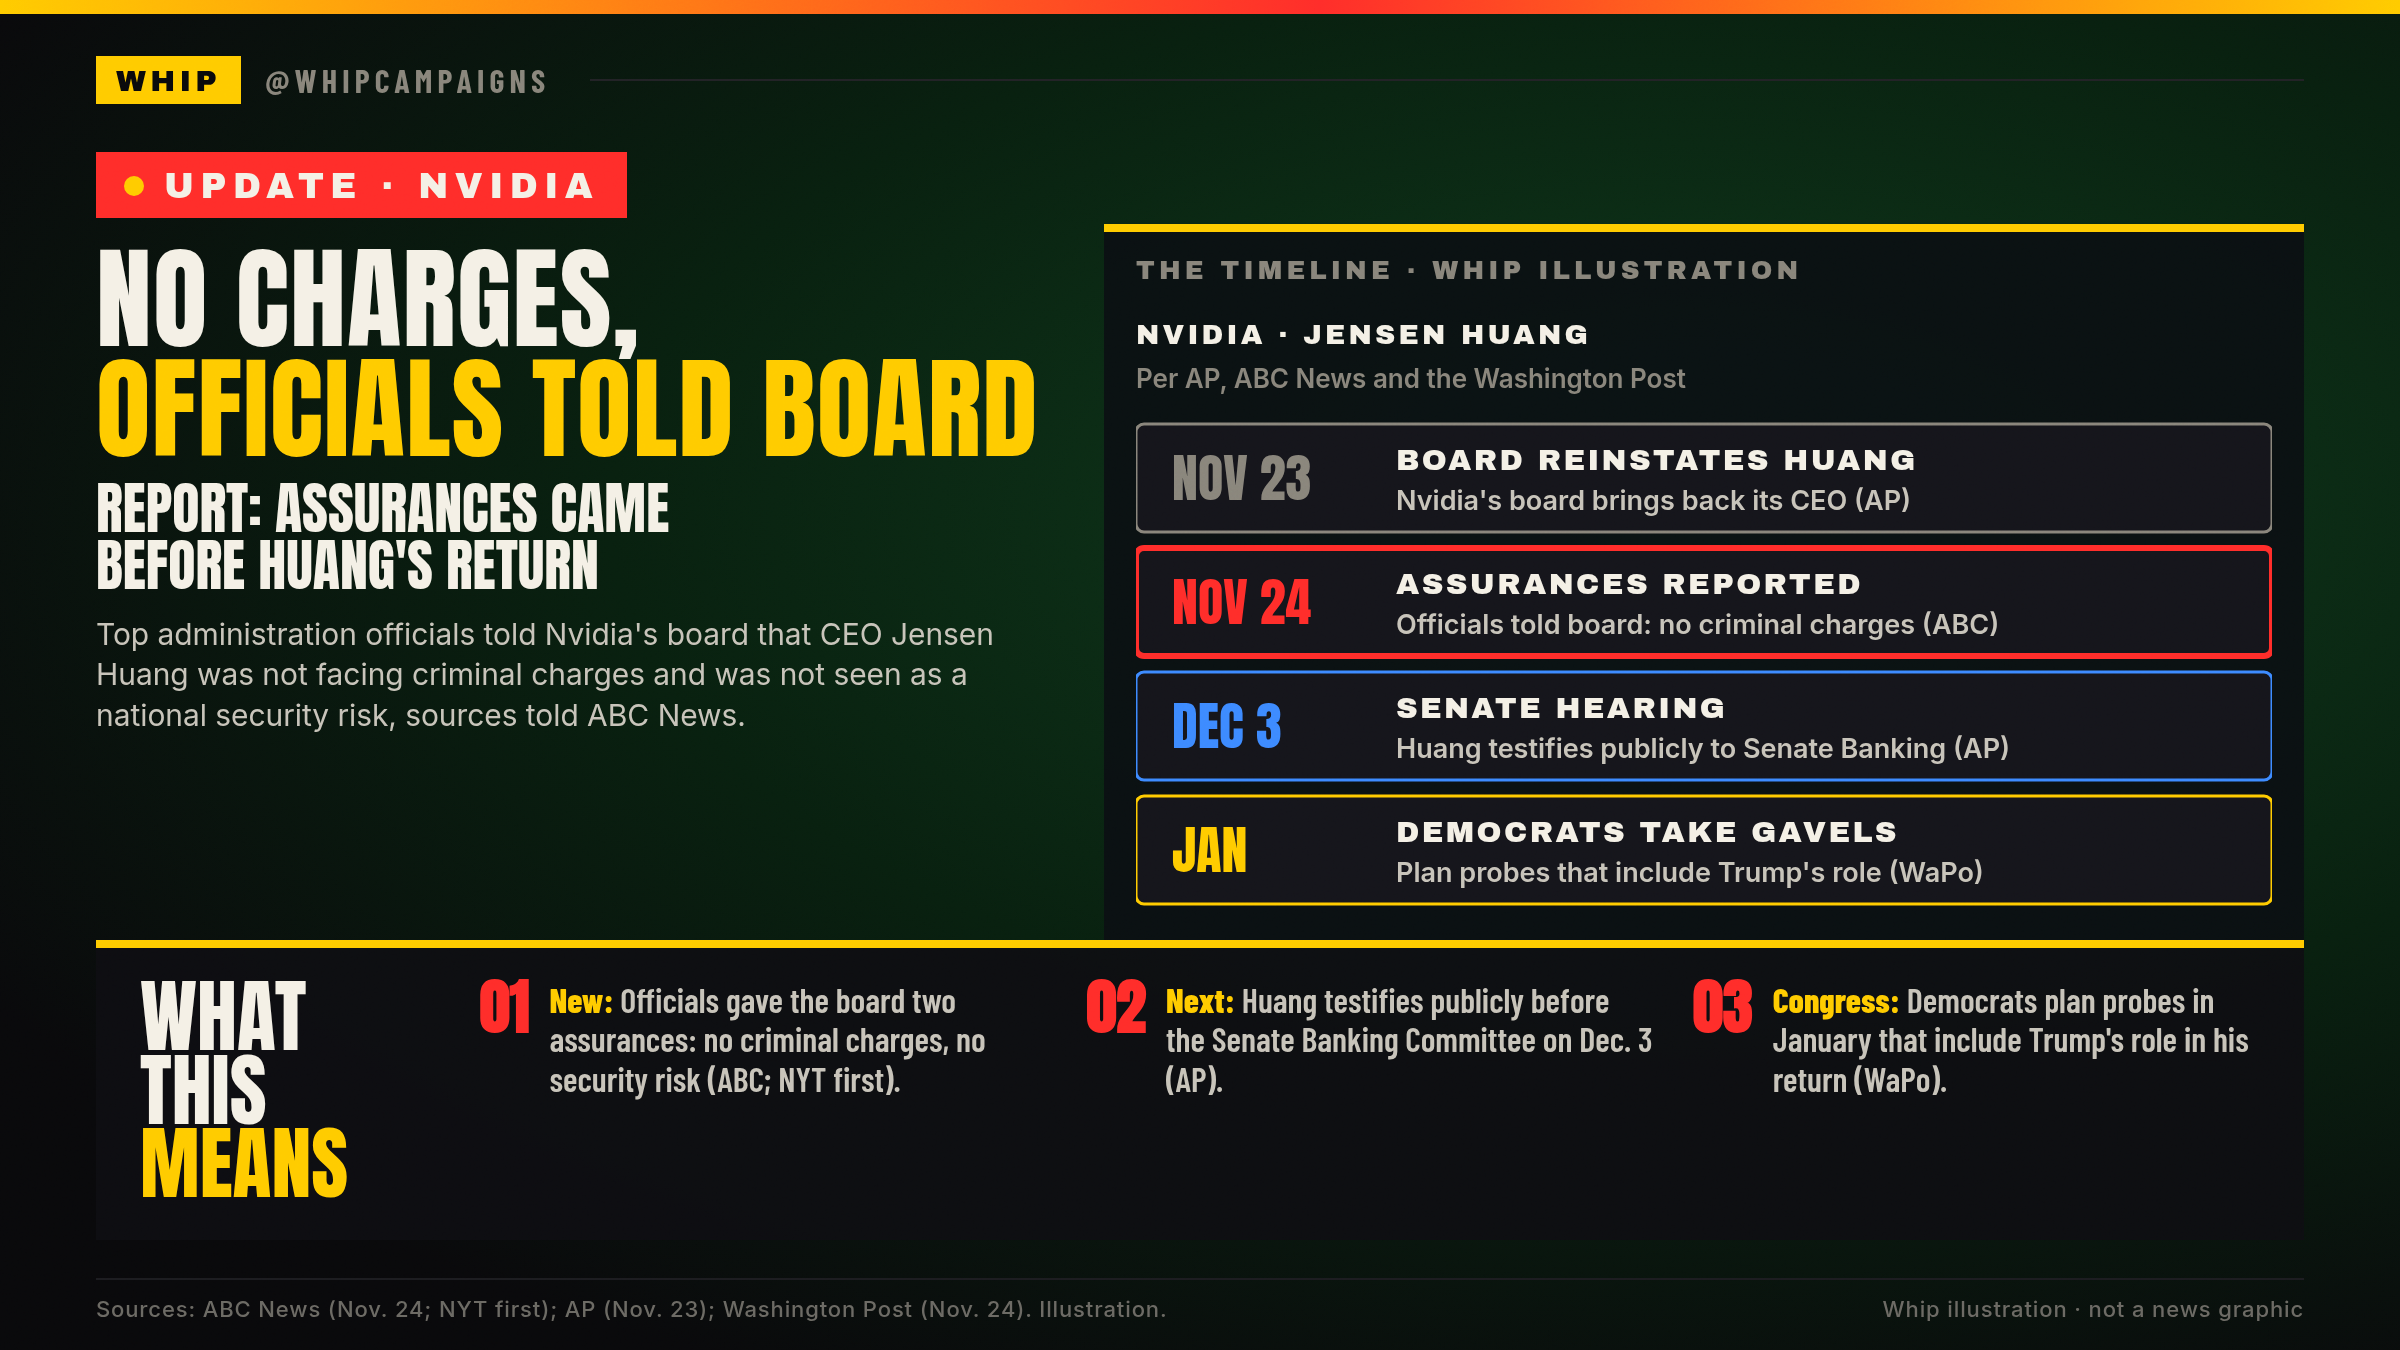
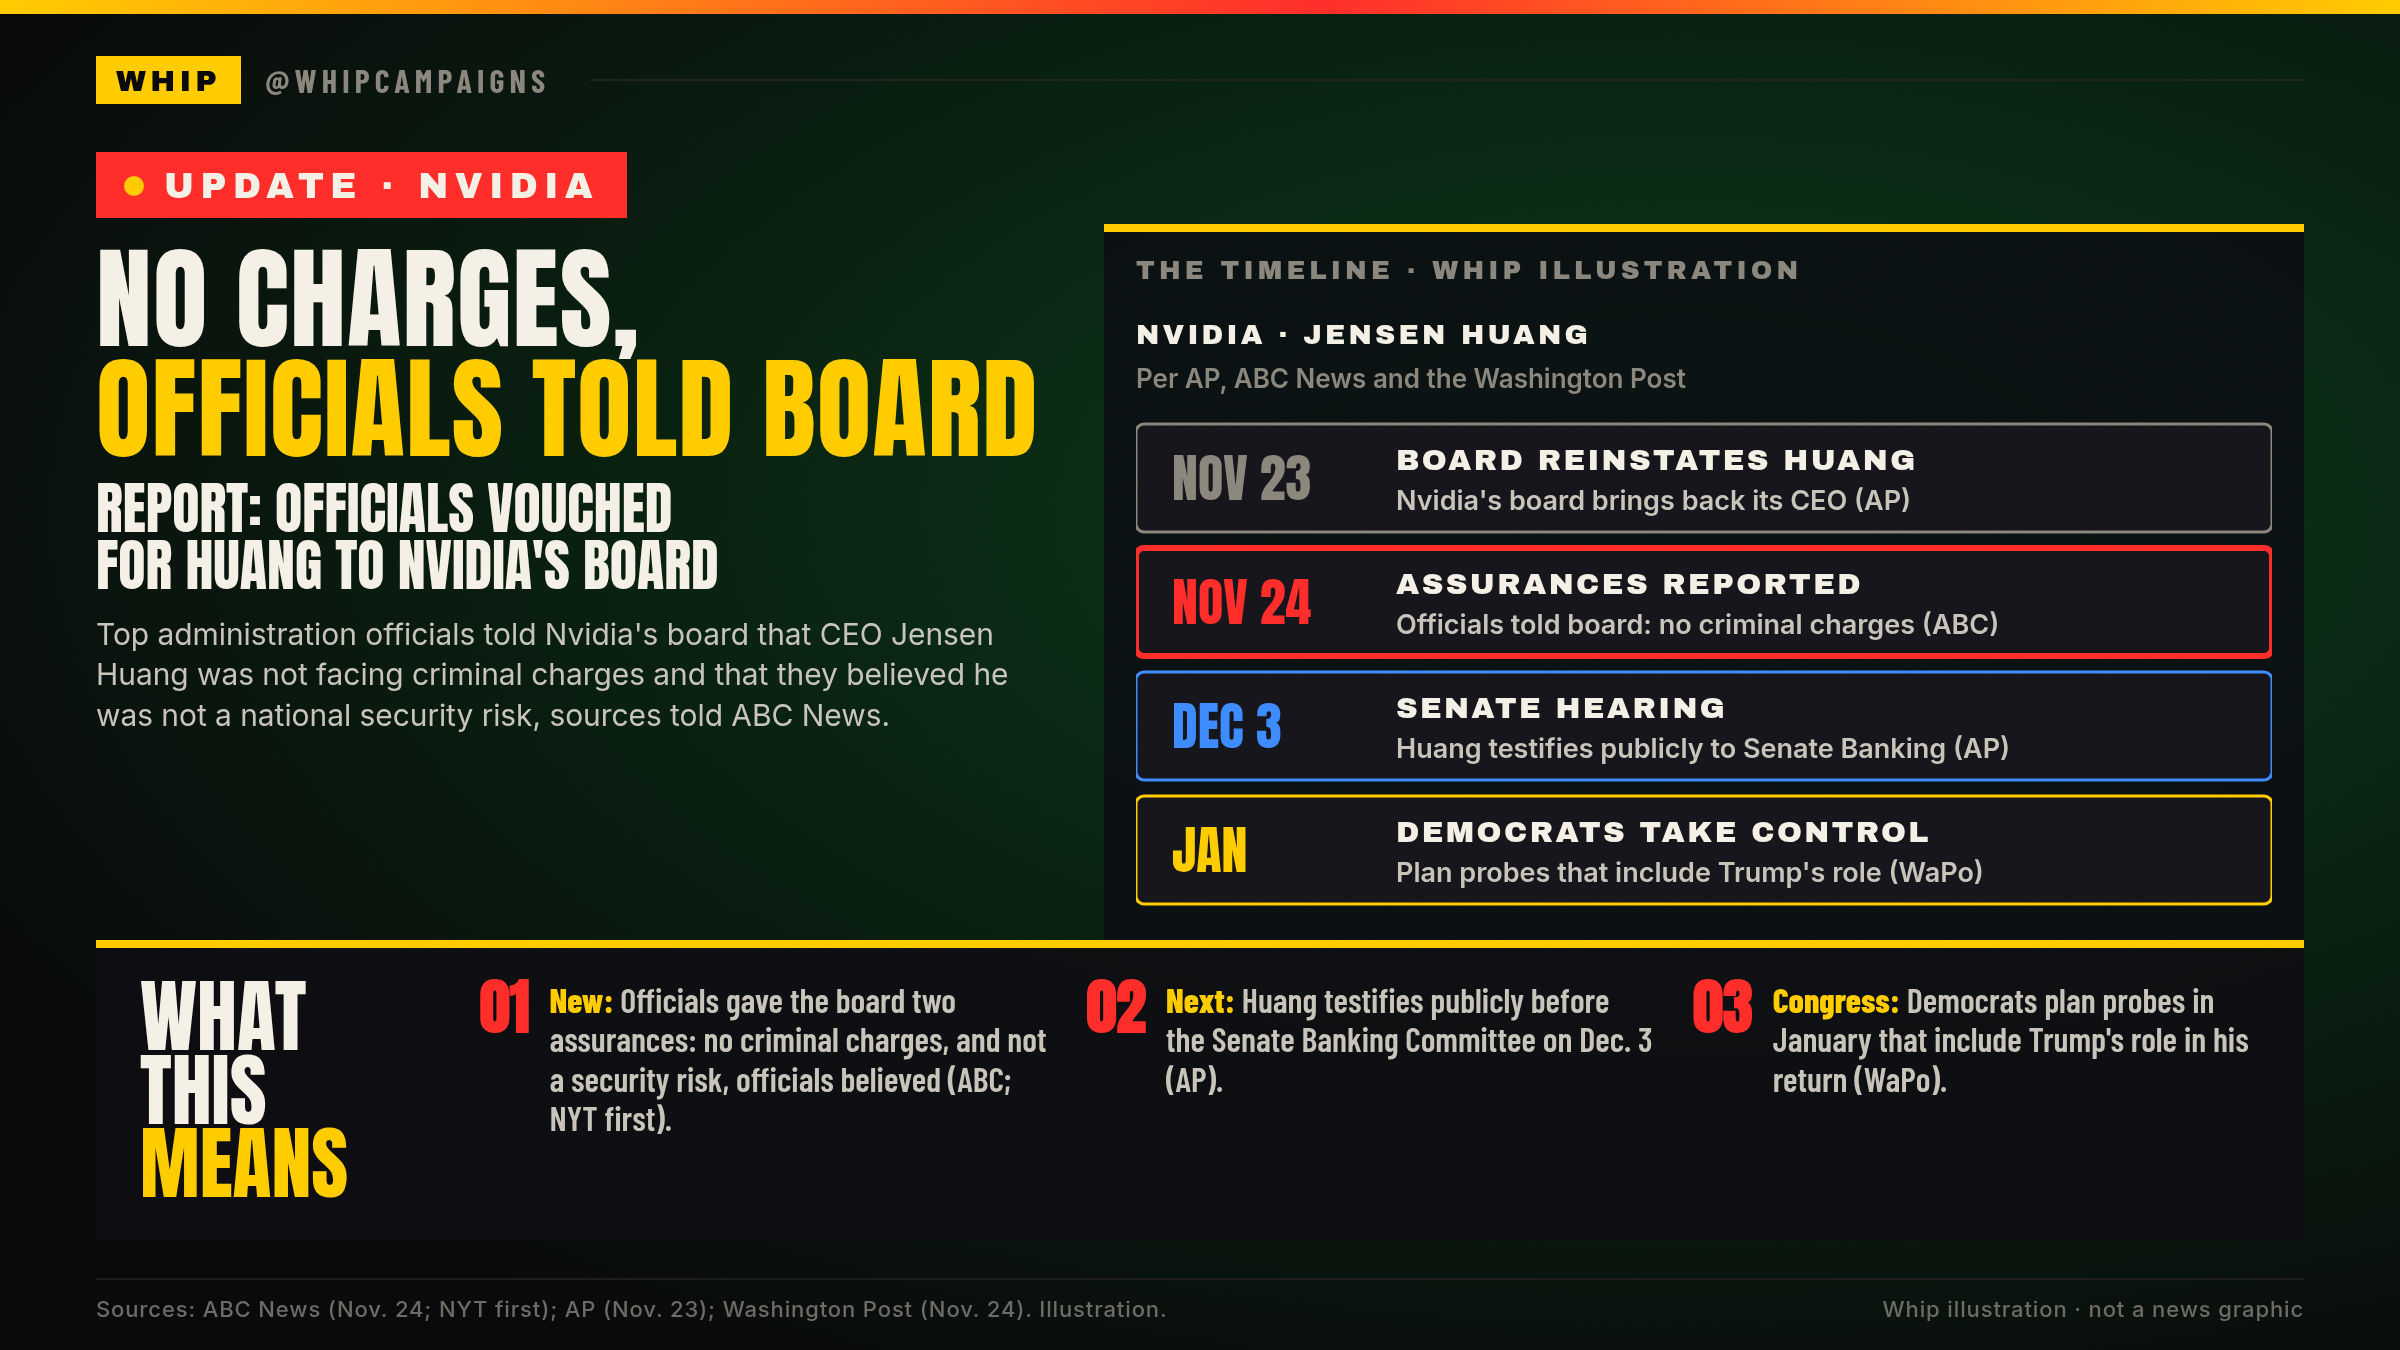
Huang assurances card: Approver fixes (subhead, JAN row, strip 01, attribution)

diff --git a/breaking/2026-11-24-huang-assurances/make_card.py b/breaking/2026-11-24-huang-assurances/make_card.py
@@ -16,7 +16,7 @@ parts.append(f'<text x="0" y="44" font-family="Inter" font-size="13" font-weight
 rows = [("NOV 23", "Board reinstates Huang", "Nvidia's board brings back its CEO (AP)", MUTE),
         ("NOV 24", "Assurances reported", "Officials told board: no criminal charges (ABC)", RED),
         ("DEC 3", "Senate hearing", "Huang testifies publicly to Senate Banking (AP)", BLU),
-        ("JAN", "Democrats take gavels", "Plan probes that include Trump's role (WaPo)", YEL)]
+        ("JAN", "Democrats take control", "Plan probes that include Trump's role (WaPo)", YEL)]
 y = 62
 for d, lab, note, col in rows:
     parts.append(f'<rect x="0" y="{y}" width="{W}" height="54" rx="4" fill="#15151b" stroke="{col}" stroke-width="{3 if col==RED else 1.5}"/>')
@@ -31,8 +31,8 @@ html = wrap(f"""
 <div class="tag"><span class="dot"></span>UPDATE &middot; NVIDIA</div>
 <div class="left">
   <div class="h1">NO CHARGES,<br><span class="y">OFFICIALS TOLD BOARD</span></div>
-  <div class="h2">REPORT: ASSURANCES CAME<br>BEFORE HUANG'S RETURN</div>
-  <div class="att">Top administration officials told Nvidia's board that CEO Jensen Huang was not facing criminal charges and was not seen as a national security risk, sources told ABC News.</div>
+  <div class="h2">REPORT: OFFICIALS VOUCHED<br>FOR HUANG TO NVIDIA'S BOARD</div>
+  <div class="att">Top administration officials told Nvidia's board that CEO Jensen Huang was not facing criminal charges and that they believed he was not a national security risk, sources told ABC News.</div>
 </div>
 <div class="panel">
   <div class="ph">THE TIMELINE &middot; WHIP ILLUSTRATION</div>
@@ -40,7 +40,7 @@ html = wrap(f"""
 </div>
 <div class="strip">
   <div class="wt">WHAT THIS<br><span class="y">MEANS</span></div>
-  <div class="b"><div class="n">01</div><div><b>New:</b> Officials gave the board two assurances: no criminal charges, no security risk (ABC; NYT first).</div></div>
+  <div class="b"><div class="n">01</div><div><b>New:</b> Officials gave the board two assurances: no criminal charges, and not a security risk, officials believed (ABC; NYT first).</div></div>
   <div class="b"><div class="n">02</div><div><b>Next:</b> Huang testifies publicly before the Senate Banking Committee on Dec. 3 (AP).</div></div>
   <div class="b"><div class="n">03</div><div><b>Congress:</b> Democrats plan probes in January that include Trump's role in his return (WaPo).</div></div>
 </div>

diff --git a/breaking/2026-11-24-huang-assurances/tweet.md b/breaking/2026-11-24-huang-assurances/tweet.md
@@ -1,12 +1,9 @@
-# UPDATE: officials assured Nvidia board Huang faced no criminal charges (Nov 24, 2026)
+# UPDATE: Huang assurances (Nov 24, 2026). Approver-edited text.
 
-Draft (not posted). Target: Buffer share-now quote of ABC's BREAKING https://x.com/ABC/status/2125194702601297978 with card.png. No hook.
+Draft (not posted). Target: Buffer share-now quote of ABC https://x.com/ABC/status/2125194702601297978 with card.png. No hook.
 
-Text (len 274):
+Text (len 278):
 
-UPDATE: Top administration officials assured Nvidia's board that Jensen Huang was not facing criminal charges before it reinstated him, sources told ABC News. Democrats taking committee gavels in January plan to look into Trump's role in his return, per the Washington Post.
+UPDATE: Top administration officials assured Nvidia's board that Jensen Huang wasn't facing criminal charges and that they believed he wasn't a national security risk, sources told ABC. Democrats who take over Congress in January now have Trump's role in their sights, per WaPo.
 
-Sources:
-- ABC News, Nov 24 6:38 AM ET: https://abcnews.com/US/trump-administration-assured-nvidia-huang-facing-criminal-charges/story?id=138405808
-- Washington Post, Nov 24 5:00 AM ET: https://www.washingtonpost.com/technology/2026/11/24/jensen-huangs-return-nvidia-puts-trump-under-new-congressional-scrutiny/
-- AP, Nov 23: https://apnews.com/article/nvidia-jensen-huang-48a005a1415549e69ec69400024aa797
+Sources: ABC Nov 24 6:38 AM ET https://abcnews.com/US/trump-administration-assured-nvidia-huang-facing-criminal-charges/story?id=138405808 ; WaPo Nov 24 https://www.washingtonpost.com/technology/2026/11/24/jensen-huangs-return-nvidia-puts-trump-under-new-congressional-scrutiny/ ; AP https://apnews.com/article/nvidia-jensen-huang-48a005a1415549e69ec69400024aa797 ; The Hill (Dec 3) https://thehill.com/homenews/senate/6238064-nvidia-ceo-ai-hearing-december/
